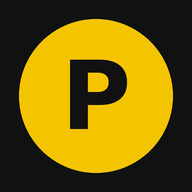
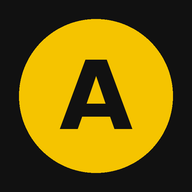
Add files via upload

Changed region(s): [[0.3125, 0.2812, 0.6875, 0.6875]]

diff --git a/index.html b/index.html
@@ -1,6 +1,6 @@
 <!DOCTYPE html><html lang="ar" dir="rtl"><head><meta charset="utf-8">
 <meta name="viewport" content="width=device-width,initial-scale=1,viewport-fit=cover">
-<title>PROTEIN &amp; COSMETICS</title><meta name="theme-color" content="#111111">
+<title>Ahmed Saber Cosmetics</title><meta name="theme-color" content="#111111">
 <link rel="manifest" href="manifest.json"><link rel="icon" href="icon-192.png"><link rel="apple-touch-icon" href="apple-touch-icon.png">
 <style>
 :root{--bg:#f5f5f2;--ink:#111;--mut:#6b6b66;--gold:#f5c400;--line:#e5e5df}
@@ -50,7 +50,7 @@ h2{font-size:17px;margin:18px 14px 10px}
 .nb{margin:12px 14px 0;padding:12px 14px;border-radius:12px;background:var(--gold);color:var(--ink);font-weight:700;font-size:15px;display:flex;align-items:center;justify-content:space-between;gap:8px;cursor:pointer;animation:nbp 1.6s ease-in-out infinite}.nb i{font-style:normal;padding:2px 10px;font-size:18px}@keyframes nbp{50%{box-shadow:0 0 0 5px rgba(245,196,0,.35)}}
 @keyframes slin{from{transform:translateX(var(--dx,0));opacity:.4}to{transform:none;opacity:1}}
 </style></head><body>
-<header><div class="br"><b id="bn">PROTEIN &amp; COSMETICS</b><span>أسعار الجملة</span></div>
+<header><div class="br"><b id="bn">Ahmed Saber Cosmetics</b><span>أسعار الجملة</span></div>
 <input id="q" type="search" placeholder="ابحث عن منتج..." oninput="term=this.value;draw()"><div id="ch"></div><div id="imbar"></div></header>
 <main id="m"></main>
 <div id="lb"><button id="lbx" onclick="lbClose()">✕</button><button id="lbp" onclick="lbGo(-1)">‹</button><button id="lbq" onclick="lbGo(1)">›</button><div id="lbn"></div><img alt=""><div id="lbh">بإصبعين للتكبير • دوس مرتين للتقريب • اسحب يمين أو شمال للصورة اللي بعدها</div></div>

diff --git a/products.js b/products.js
@@ -1,6 +1,6 @@
 const CATALOG={
- "brand": "PROTEIN & COSMETICS",
- "whatsapp": "201021602774",
+ "brand": "Ahmed Saber Cosmetics",
+ "whatsapp": "201002515477",
  "sections": [
   {
    "name": "البروتينات",
